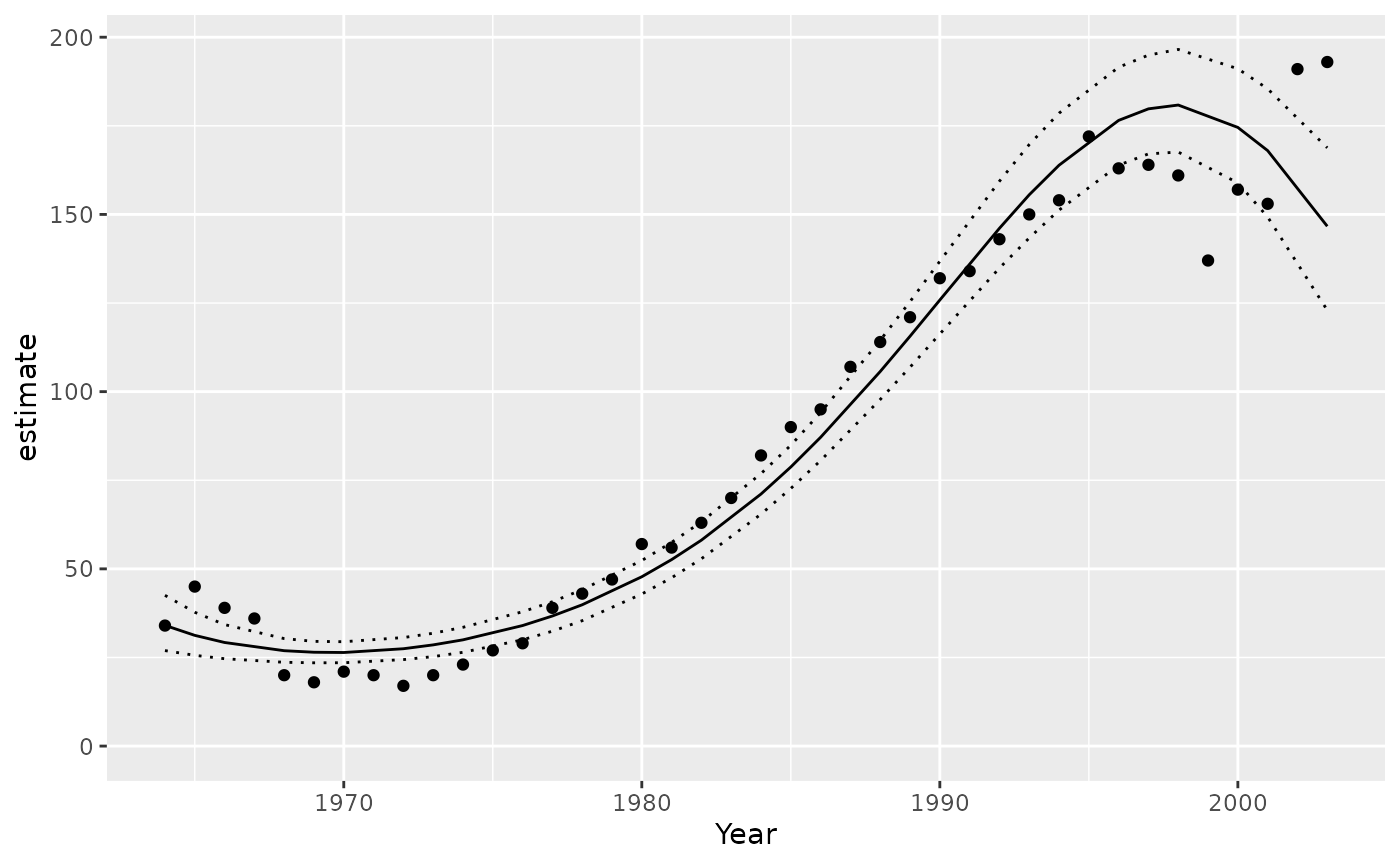
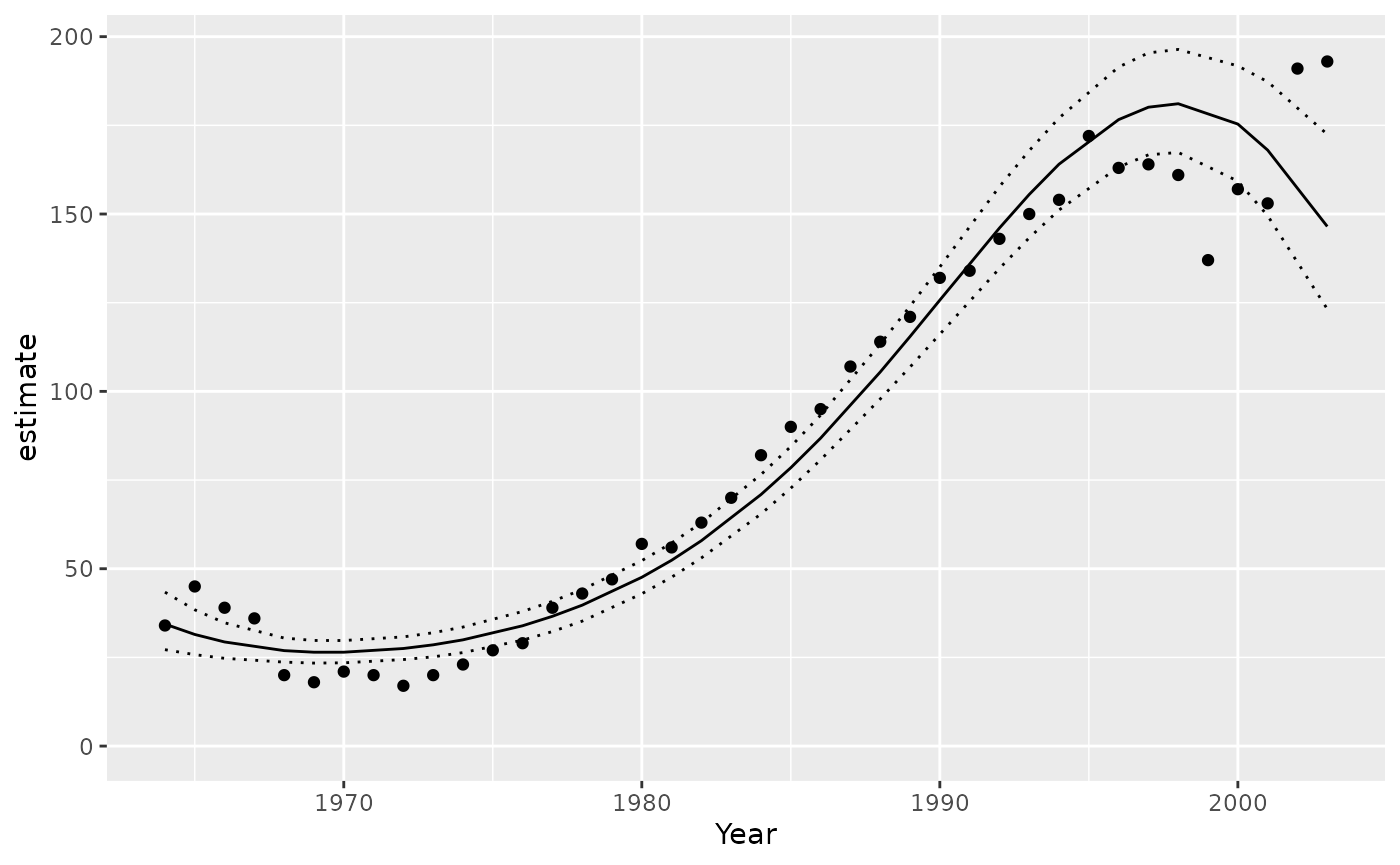
Built site for jmbr@0.0.0.9135: dde335f

diff --git a/articles/jmbr.html b/articles/jmbr.html
@@ -285,14 +285,14 @@ value and discarding all other values.</p>
 <span><span class="co">#&gt; <span style="color: #949494;"># A tibble: 1 × 8</span></span></span>
 <span><span class="co">#&gt;       n     K nchains niters nthin   ess  rhat converged</span></span>
 <span><span class="co">#&gt;   <span style="color: #949494; font-style: italic;">&lt;int&gt;</span> <span style="color: #949494; font-style: italic;">&lt;int&gt;</span>   <span style="color: #949494; font-style: italic;">&lt;int&gt;</span>  <span style="color: #949494; font-style: italic;">&lt;int&gt;</span> <span style="color: #949494; font-style: italic;">&lt;int&gt;</span> <span style="color: #949494; font-style: italic;">&lt;int&gt;</span> <span style="color: #949494; font-style: italic;">&lt;dbl&gt;</span> <span style="color: #949494; font-style: italic;">&lt;lgl&gt;</span>    </span></span>
-<span><span class="co">#&gt; <span style="color: #BCBCBC;">1</span>    40     6       3    500    10    86  1.64 FALSE</span></span>
+<span><span class="co">#&gt; <span style="color: #BCBCBC;">1</span>    40     6       3    500    10   201  1.00 TRUE</span></span>
 <span><span class="co">#&gt; Warning in value[[3L]](cond): beep() could not play the sound due to the following error:</span></span>
 <span><span class="co">#&gt; Error in play.default(x, rate, ...): no audio drivers are available</span></span>
 <span><span class="va">analysis</span> <span class="op">&lt;-</span> <span class="fu"><a href="https://rdrr.io/pkg/embr/man/reanalyse.html" class="external-link">reanalyse</a></span><span class="op">(</span><span class="va">analysis</span><span class="op">)</span></span>
 <span><span class="co">#&gt; <span style="color: #949494;"># A tibble: 1 × 8</span></span></span>
 <span><span class="co">#&gt;       n     K nchains niters nthin   ess  rhat converged</span></span>
 <span><span class="co">#&gt;   <span style="color: #949494; font-style: italic;">&lt;int&gt;</span> <span style="color: #949494; font-style: italic;">&lt;int&gt;</span>   <span style="color: #949494; font-style: italic;">&lt;int&gt;</span>  <span style="color: #949494; font-style: italic;">&lt;int&gt;</span> <span style="color: #949494; font-style: italic;">&lt;int&gt;</span> <span style="color: #949494; font-style: italic;">&lt;int&gt;</span> <span style="color: #949494; font-style: italic;">&lt;dbl&gt;</span> <span style="color: #949494; font-style: italic;">&lt;lgl&gt;</span>    </span></span>
-<span><span class="co">#&gt; <span style="color: #BCBCBC;">1</span>    40     6       3    500    20   414  1.01 TRUE</span></span>
+<span><span class="co">#&gt; <span style="color: #BCBCBC;">1</span>    40     6       3    500    10   201  1.00 TRUE</span></span>
 <span><span class="co">#&gt; Warning in value[[3L]](cond): beep() could not play the sound due to the following error:</span></span>
 <span><span class="co">#&gt; Error in play.default(x, rate, ...): no audio drivers are available</span></span></code></pre></div>
 <p><strong>Analysis Table:</strong></p>
@@ -342,12 +342,12 @@ between- and within-chain estimates for model parameters.
 <span><span class="co">#&gt; <span style="color: #949494;"># A tibble: 6 × 7</span></span></span>
 <span><span class="co">#&gt;   term        estimate     sd  zscore   lower   upper   pvalue</span></span>
 <span><span class="co">#&gt;   <span style="color: #949494; font-style: italic;">&lt;term&gt;</span>         <span style="color: #949494; font-style: italic;">&lt;dbl&gt;</span>  <span style="color: #949494; font-style: italic;">&lt;dbl&gt;</span>   <span style="color: #949494; font-style: italic;">&lt;dbl&gt;</span>   <span style="color: #949494; font-style: italic;">&lt;dbl&gt;</span>   <span style="color: #949494; font-style: italic;">&lt;dbl&gt;</span>    <span style="color: #949494; font-style: italic;">&lt;dbl&gt;</span></span></span>
-<span><span class="co">#&gt; <span style="color: #BCBCBC;">1</span> alpha         4.26   0.041<span style="text-decoration: underline;">4</span> 103.     4.18    4.34   0.000<span style="text-decoration: underline;">666</span></span></span>
-<span><span class="co">#&gt; <span style="color: #BCBCBC;">2</span> beta1         1.19   0.072<span style="text-decoration: underline;">9</span>  16.4    1.05    1.34   0.000<span style="text-decoration: underline;">666</span></span></span>
-<span><span class="co">#&gt; <span style="color: #BCBCBC;">3</span> beta2        -<span style="color: #BB0000;">0.020</span><span style="color: #BB0000; text-decoration: underline;">2</span> 0.031<span style="text-decoration: underline;">4</span>  -<span style="color: #BB0000;">0.638</span> -<span style="color: #BB0000;">0.081</span><span style="color: #BB0000; text-decoration: underline;">5</span>  0.042<span style="text-decoration: underline;">1</span> 0.507   </span></span>
-<span><span class="co">#&gt; <span style="color: #BCBCBC;">4</span> beta3        -<span style="color: #BB0000;">0.271</span>  0.037<span style="text-decoration: underline;">1</span>  -<span style="color: #BB0000;">7.33</span>  -<span style="color: #BB0000;">0.348</span>  -<span style="color: #BB0000;">0.204</span>  0.000<span style="text-decoration: underline;">666</span></span></span>
-<span><span class="co">#&gt; <span style="color: #BCBCBC;">5</span> log_sAnnual  -<span style="color: #BB0000;">2.23</span>   0.373   -<span style="color: #BB0000;">6.13</span>  -<span style="color: #BB0000;">3.27</span>   -<span style="color: #BB0000;">1.71</span>   0.000<span style="text-decoration: underline;">666</span></span></span>
-<span><span class="co">#&gt; <span style="color: #BCBCBC;">6</span> sAnnual       0.107  0.033<span style="text-decoration: underline;">0</span>   3.27   0.038<span style="text-decoration: underline;">2</span>  0.181  0.000<span style="text-decoration: underline;">666</span></span></span></code></pre></div>
+<span><span class="co">#&gt; <span style="color: #BCBCBC;">1</span> alpha         4.26   0.040<span style="text-decoration: underline;">2</span> 106.     4.18    4.34   0.000<span style="text-decoration: underline;">666</span></span></span>
+<span><span class="co">#&gt; <span style="color: #BCBCBC;">2</span> beta1         1.19   0.073<span style="text-decoration: underline;">6</span>  16.2    1.05    1.35   0.000<span style="text-decoration: underline;">666</span></span></span>
+<span><span class="co">#&gt; <span style="color: #BCBCBC;">3</span> beta2        -<span style="color: #BB0000;">0.017</span><span style="color: #BB0000; text-decoration: underline;">3</span> 0.031<span style="text-decoration: underline;">4</span>  -<span style="color: #BB0000;">0.564</span> -<span style="color: #BB0000;">0.077</span><span style="color: #BB0000; text-decoration: underline;">5</span>  0.044<span style="text-decoration: underline;">8</span> 0.536   </span></span>
+<span><span class="co">#&gt; <span style="color: #BCBCBC;">4</span> beta3        -<span style="color: #BB0000;">0.273</span>  0.037<span style="text-decoration: underline;">5</span>  -<span style="color: #BB0000;">7.29</span>  -<span style="color: #BB0000;">0.349</span>  -<span style="color: #BB0000;">0.200</span>  0.000<span style="text-decoration: underline;">666</span></span></span>
+<span><span class="co">#&gt; <span style="color: #BCBCBC;">5</span> log_sAnnual  -<span style="color: #BB0000;">2.23</span>   0.279   -<span style="color: #BB0000;">8.04</span>  -<span style="color: #BB0000;">2.84</span>   -<span style="color: #BB0000;">1.73</span>   0.000<span style="text-decoration: underline;">666</span></span></span>
+<span><span class="co">#&gt; <span style="color: #BCBCBC;">6</span> sAnnual       0.108  0.029<span style="text-decoration: underline;">3</span>   3.76   0.058<span style="text-decoration: underline;">5</span>  0.177  0.000<span style="text-decoration: underline;">666</span></span></span></code></pre></div>
 <p>The estimate is the <strong>median</strong> by default.</p>
 <p>The zscore is <span class="math inline">mean / sd</span>.</p>
 <div class="sourceCode" id="cb12"><pre class="downlit sourceCode r">
@@ -356,11 +356,11 @@ between- and within-chain estimates for model parameters.
 <span><span class="co">#&gt;   term        estimate   lower   upper svalue</span></span>
 <span><span class="co">#&gt;   <span style="color: #949494; font-style: italic;">&lt;term&gt;</span>         <span style="color: #949494; font-style: italic;">&lt;dbl&gt;</span>   <span style="color: #949494; font-style: italic;">&lt;dbl&gt;</span>   <span style="color: #949494; font-style: italic;">&lt;dbl&gt;</span>  <span style="color: #949494; font-style: italic;">&lt;dbl&gt;</span></span></span>
 <span><span class="co">#&gt; <span style="color: #BCBCBC;">1</span> alpha         4.26    4.18    4.34   10.6  </span></span>
-<span><span class="co">#&gt; <span style="color: #BCBCBC;">2</span> beta1         1.19    1.05    1.34   10.6  </span></span>
-<span><span class="co">#&gt; <span style="color: #BCBCBC;">3</span> beta2        -<span style="color: #BB0000;">0.020</span><span style="color: #BB0000; text-decoration: underline;">2</span> -<span style="color: #BB0000;">0.081</span><span style="color: #BB0000; text-decoration: underline;">5</span>  0.042<span style="text-decoration: underline;">1</span>  0.980</span></span>
-<span><span class="co">#&gt; <span style="color: #BCBCBC;">4</span> beta3        -<span style="color: #BB0000;">0.271</span>  -<span style="color: #BB0000;">0.348</span>  -<span style="color: #BB0000;">0.204</span>  10.6  </span></span>
-<span><span class="co">#&gt; <span style="color: #BCBCBC;">5</span> log_sAnnual  -<span style="color: #BB0000;">2.23</span>   -<span style="color: #BB0000;">3.27</span>   -<span style="color: #BB0000;">1.71</span>   10.6  </span></span>
-<span><span class="co">#&gt; <span style="color: #BCBCBC;">6</span> sAnnual       0.107   0.038<span style="text-decoration: underline;">2</span>  0.181  10.6</span></span></code></pre></div>
+<span><span class="co">#&gt; <span style="color: #BCBCBC;">2</span> beta1         1.19    1.05    1.35   10.6  </span></span>
+<span><span class="co">#&gt; <span style="color: #BCBCBC;">3</span> beta2        -<span style="color: #BB0000;">0.017</span><span style="color: #BB0000; text-decoration: underline;">3</span> -<span style="color: #BB0000;">0.077</span><span style="color: #BB0000; text-decoration: underline;">5</span>  0.044<span style="text-decoration: underline;">8</span>  0.899</span></span>
+<span><span class="co">#&gt; <span style="color: #BCBCBC;">4</span> beta3        -<span style="color: #BB0000;">0.273</span>  -<span style="color: #BB0000;">0.349</span>  -<span style="color: #BB0000;">0.200</span>  10.6  </span></span>
+<span><span class="co">#&gt; <span style="color: #BCBCBC;">5</span> log_sAnnual  -<span style="color: #BB0000;">2.23</span>   -<span style="color: #BB0000;">2.84</span>   -<span style="color: #BB0000;">1.73</span>   10.6  </span></span>
+<span><span class="co">#&gt; <span style="color: #BCBCBC;">6</span> sAnnual       0.108   0.058<span style="text-decoration: underline;">5</span>  0.177  10.6</span></span></code></pre></div>
 <p>The s-value is the <strong>suprisal</strong> value, which is a
 measure of directionality with respect to zero.</p>
 <p>The s-value is zero (unsurprising) when <em>p-value</em> = 1.0 and
